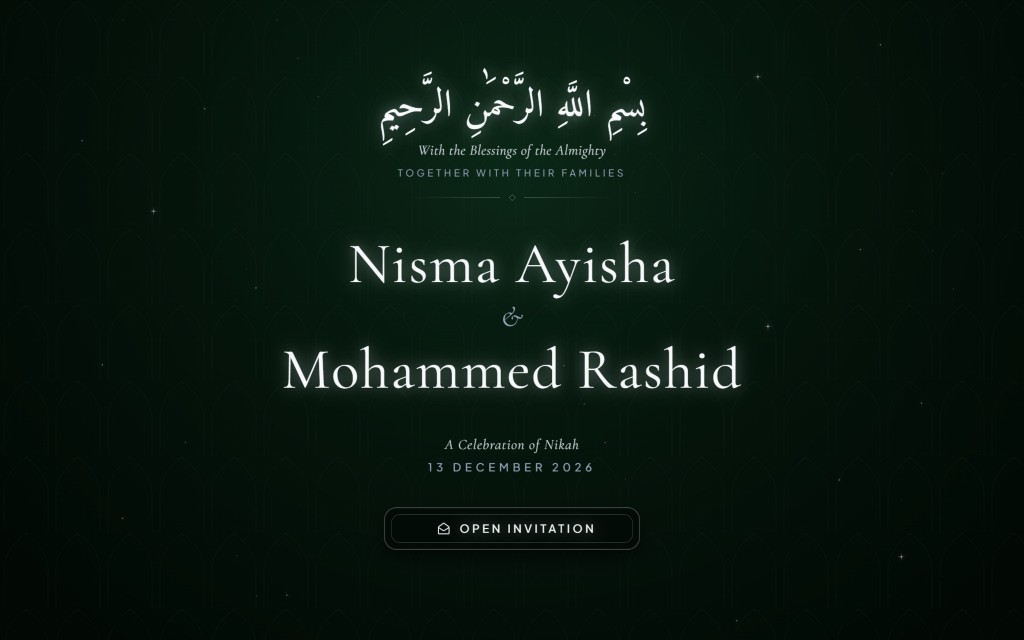
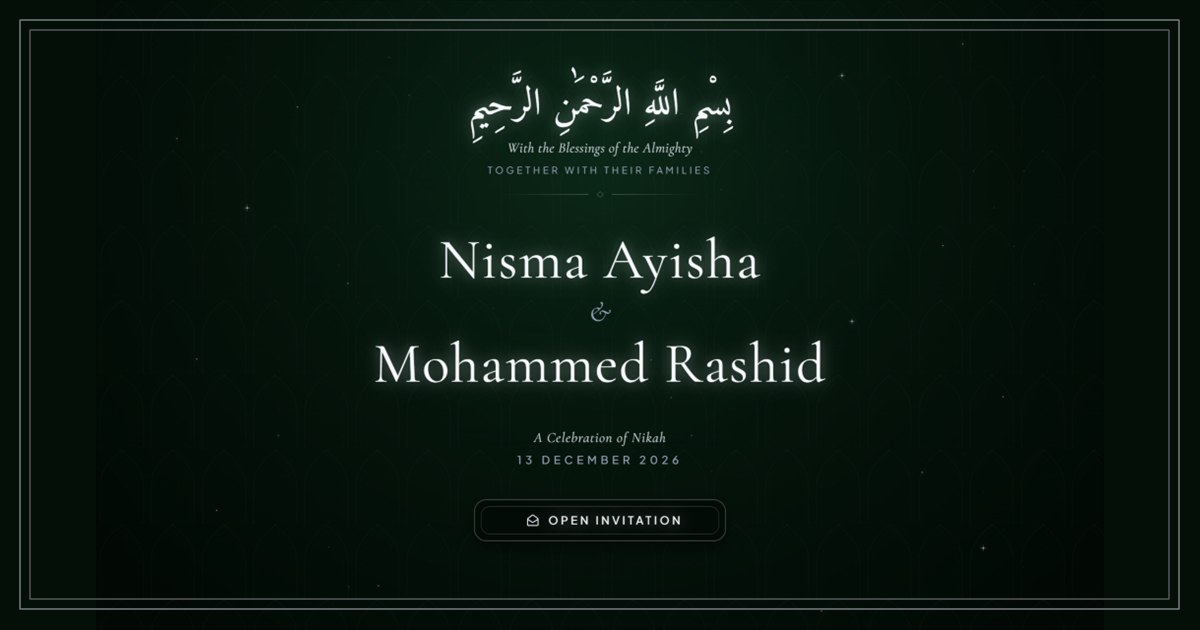
Configure 1200x630 OG preview card for nisma-rashidwedding.vercel.app

diff --git a/public/og-preview.html b/public/og-preview.html
@@ -1,0 +1,191 @@
+<!DOCTYPE html>
+<html lang="en">
+<head>
+  <meta charset="UTF-8">
+  <title>OG Image Generator</title>
+  <link rel="preconnect" href="https://fonts.googleapis.com">
+  <link rel="preconnect" href="https://fonts.gstatic.com" crossorigin>
+  <link href="https://fonts.googleapis.com/css2?family=Amiri:wght@400;700&family=Cinzel:wght@400;600&family=Cormorant+Garamond:ital,wght@0,300;0,400;0,600;1,400&family=Plus+Jakarta+Sans:wght@300;400;500;600&display=swap" rel="stylesheet">
+  <style>
+    * {
+      margin: 0;
+      padding: 0;
+      box-sizing: border-box;
+    }
+    body {
+      width: 1200px;
+      height: 630px;
+      overflow: hidden;
+      background-color: #030d06;
+      font-family: 'Plus Jakarta Sans', sans-serif;
+      color: #E2E8F0;
+    }
+    .og-container {
+      width: 1200px;
+      height: 630px;
+      position: relative;
+      background: radial-gradient(ellipse at 50% 35%, #082917 0%, #031409 60%, #010603 100%);
+      display: flex;
+      flex-direction: column;
+      align-items: center;
+      justify-content: center;
+      padding: 40px;
+      text-align: center;
+    }
+    /* Outer Concentric Hairline Frame */
+    .outer-frame {
+      position: absolute;
+      inset: 24px;
+      border: 1px solid rgba(226, 232, 240, 0.35);
+      border-radius: 24px;
+      pointer-events: none;
+    }
+    /* Inner Concentric Hairline Frame */
+    .inner-frame {
+      position: absolute;
+      inset: 34px;
+      border: 1px solid rgba(226, 232, 240, 0.16);
+      border-radius: 16px;
+      pointer-events: none;
+    }
+    /* Corner Diamond Accents */
+    .corner-diamond {
+      position: absolute;
+      width: 8px;
+      height: 8px;
+      border: 1px solid rgba(245, 215, 127, 0.6);
+      transform: rotate(45deg);
+      background: #082917;
+    }
+    .top-left { top: 30px; left: 30px; }
+    .top-right { top: 30px; right: 30px; }
+    .bottom-left { bottom: 30px; left: 30px; }
+    .bottom-right { bottom: 30px; right: 30px; }
+
+    .bismillah {
+      font-family: 'Amiri', serif;
+      font-size: 40px;
+      color: #F8FAFC;
+      letter-spacing: 0.05em;
+      margin-bottom: 8px;
+      text-shadow: 0 0 20px rgba(255, 255, 255, 0.35);
+    }
+    .sub-blessing {
+      font-family: 'Cormorant Garamond', serif;
+      font-style: italic;
+      font-size: 20px;
+      color: rgba(226, 232, 240, 0.85);
+      font-weight: 300;
+      letter-spacing: 0.05em;
+      margin-bottom: 4px;
+    }
+    .families {
+      font-family: 'Plus Jakarta Sans', sans-serif;
+      font-size: 11px;
+      letter-spacing: 0.35em;
+      text-transform: uppercase;
+      color: #94A3B8;
+      margin-bottom: 22px;
+    }
+    /* Diamond Divider */
+    .divider {
+      display: flex;
+      align-items: center;
+      justify-content: center;
+      width: 240px;
+      margin: 0 auto 24px;
+      opacity: 0.75;
+    }
+    .divider-line {
+      flex: 1;
+      height: 1px;
+      background: linear-gradient(90deg, transparent, rgba(226, 232, 240, 0.4));
+    }
+    .divider-line.right {
+      background: linear-gradient(270deg, transparent, rgba(226, 232, 240, 0.4));
+    }
+    .divider-diamond {
+      width: 7px;
+      height: 7px;
+      border: 1px solid rgba(226, 232, 240, 0.5);
+      background: #082213;
+      transform: rotate(45deg);
+      margin: 0 12px;
+    }
+    /* Couple Names */
+    .couple-names {
+      display: flex;
+      flex-direction: column;
+      align-items: center;
+      margin-bottom: 20px;
+    }
+    .name {
+      font-family: 'Cormorant Garamond', serif;
+      font-size: 64px;
+      font-weight: 500;
+      color: #F8FAFC;
+      letter-spacing: 0.04em;
+      line-height: 1.1;
+      text-shadow: 0 0 25px rgba(226, 232, 240, 0.4), 0 0 50px rgba(255, 255, 255, 0.2);
+    }
+    .ampersand {
+      font-family: 'Cormorant Garamond', serif;
+      font-style: italic;
+      font-size: 38px;
+      color: #E5BE53;
+      margin: -2px 0;
+      text-shadow: 0 0 15px rgba(229, 190, 83, 0.5);
+    }
+    .details {
+      margin-top: 10px;
+    }
+    .celebration {
+      font-family: 'Cormorant Garamond', serif;
+      font-style: italic;
+      font-size: 20px;
+      color: rgba(226, 232, 240, 0.9);
+      letter-spacing: 0.08em;
+      margin-bottom: 6px;
+    }
+    .date-venue {
+      font-family: 'Plus Jakarta Sans', sans-serif;
+      font-size: 13px;
+      letter-spacing: 0.28em;
+      text-transform: uppercase;
+      color: #E2E8F0;
+      font-weight: 500;
+    }
+  </style>
+</head>
+<body>
+  <div class="og-container">
+    <div class="outer-frame"></div>
+    <div class="inner-frame"></div>
+    <div class="corner-diamond top-left"></div>
+    <div class="corner-diamond top-right"></div>
+    <div class="corner-diamond bottom-left"></div>
+    <div class="corner-diamond bottom-right"></div>
+
+    <div class="bismillah">بِسْمِ اللَّهِ الرَّحْمَٰنِ الرَّحِيمِ</div>
+    <div class="sub-blessing">With the Blessings of the Almighty</div>
+    <div class="families">TOGETHER WITH THEIR FAMILIES</div>
+
+    <div class="divider">
+      <div class="divider-line"></div>
+      <div class="divider-diamond"></div>
+      <div class="divider-line right"></div>
+    </div>
+
+    <div class="couple-names">
+      <div class="name">Nisma Ayisha</div>
+      <div class="ampersand">&amp;</div>
+      <div class="name">Mohammed Rashid</div>
+    </div>
+
+    <div class="details">
+      <div class="celebration">A Celebration of Nikah</div>
+      <div class="date-venue">SUNDAY 13 DECEMBER 2026 • SAGAR AUDITORIUM, PANEMANGALORE</div>
+    </div>
+  </div>
+</body>
+</html>

diff --git a/index.html b/index.html
@@ -5,27 +5,36 @@
     <meta name="viewport" content="width=device-width, initial-scale=1.0, maximum-scale=5.0" />
     <title>Nisma Ayisha & Mohammed Rashid — Wedding Invitation</title>
 
-    <!-- WhatsApp & Open Graph Primary Tags -->
+    <!-- Primary Canonical & SEO -->
+    <link rel="canonical" href="https://nisma-rashidwedding.vercel.app/" />
+    <meta name="description" content="You are cordially invited to celebrate the wedding ceremony of Nisma Ayisha & Mohammed Rashid. Sunday, 13 December 2026 at Sagar Auditorium, Panemangalore." />
+
+    <!-- Open Graph / WhatsApp / Facebook / Instagram / Telegram / iMessage -->
+    <meta property="og:type" content="website" />
+    <meta property="og:url" content="https://nisma-rashidwedding.vercel.app/" />
+    <meta property="og:site_name" content="Nisma & Rashid Wedding" />
+    <meta property="og:locale" content="en_US" />
     <meta property="og:title" content="Nisma Ayisha & Mohammed Rashid — Wedding Invitation" />
     <meta property="og:description" content="You are cordially invited to celebrate the wedding ceremony of Nisma Ayisha & Mohammed Rashid. Sunday, 13 December 2026 at Sagar Auditorium, Panemangalore." />
-    <meta property="og:image" content="https://wedding-nisma-rashid.vercel.app/og-image.jpg" />
-    <meta property="og:image:secure_url" content="https://wedding-nisma-rashid.vercel.app/og-image.jpg" />
+    <meta property="og:image" content="https://nisma-rashidwedding.vercel.app/og-image.jpg" />
+    <meta property="og:image:secure_url" content="https://nisma-rashidwedding.vercel.app/og-image.jpg" />
     <meta property="og:image:type" content="image/jpeg" />
-    <meta property="og:image:width" content="1024" />
-    <meta property="og:image:height" content="640" />
-    <meta property="og:url" content="https://wedding-nisma-rashid.vercel.app" />
-    <meta property="og:type" content="website" />
-    <meta property="og:site_name" content="Nisma & Rashid Wedding" />
-    <link rel="image_src" href="https://wedding-nisma-rashid.vercel.app/og-image.jpg" />
-    <meta itemprop="image" content="https://wedding-nisma-rashid.vercel.app/og-image.jpg" />
+    <meta property="og:image:width" content="1200" />
+    <meta property="og:image:height" content="630" />
+    <meta property="og:image:alt" content="Wedding of Nisma Ayisha & Mohammed Rashid — 13 December 2026" />
+
+    <!-- Fallback image tags for legacy WhatsApp / Google -->
+    <link rel="image_src" href="https://nisma-rashidwedding.vercel.app/og-image.jpg" />
+    <meta itemprop="name" content="Nisma Ayisha & Mohammed Rashid — Wedding Invitation" />
+    <meta itemprop="description" content="You are cordially invited to celebrate the wedding ceremony of Nisma Ayisha & Mohammed Rashid. Sunday, 13 December 2026." />
+    <meta itemprop="image" content="https://nisma-rashidwedding.vercel.app/og-image.jpg" />
 
     <!-- Twitter / X Card -->
     <meta name="twitter:card" content="summary_large_image" />
+    <meta name="twitter:url" content="https://nisma-rashidwedding.vercel.app/" />
     <meta name="twitter:title" content="Nisma Ayisha & Mohammed Rashid — Wedding Invitation" />
-    <meta name="twitter:description" content="You are cordially invited to celebrate the wedding ceremony of Nisma Ayisha & Mohammed Rashid. Sunday, 13 December 2026." />
-    <meta name="twitter:image" content="https://wedding-nisma-rashid.vercel.app/og-image.jpg" />
-
-    <meta name="description" content="You are cordially invited to celebrate the wedding ceremony of Nisma Ayisha & Mohammed Rashid. Sunday, 13 December 2026 at Sagar Auditorium, Panemangalore." />
+    <meta name="twitter:description" content="You are cordially invited to celebrate the wedding ceremony of Nisma Ayisha & Mohammed Rashid. Sunday, 13 December 2026 at Sagar Auditorium, Panemangalore." />
+    <meta name="twitter:image" content="https://nisma-rashidwedding.vercel.app/og-image.jpg" />
     <meta name="theme-color" content="#05140b" />
 
     <link rel="icon" type="image/svg+xml" href="/favicon.svg?v=2" />
